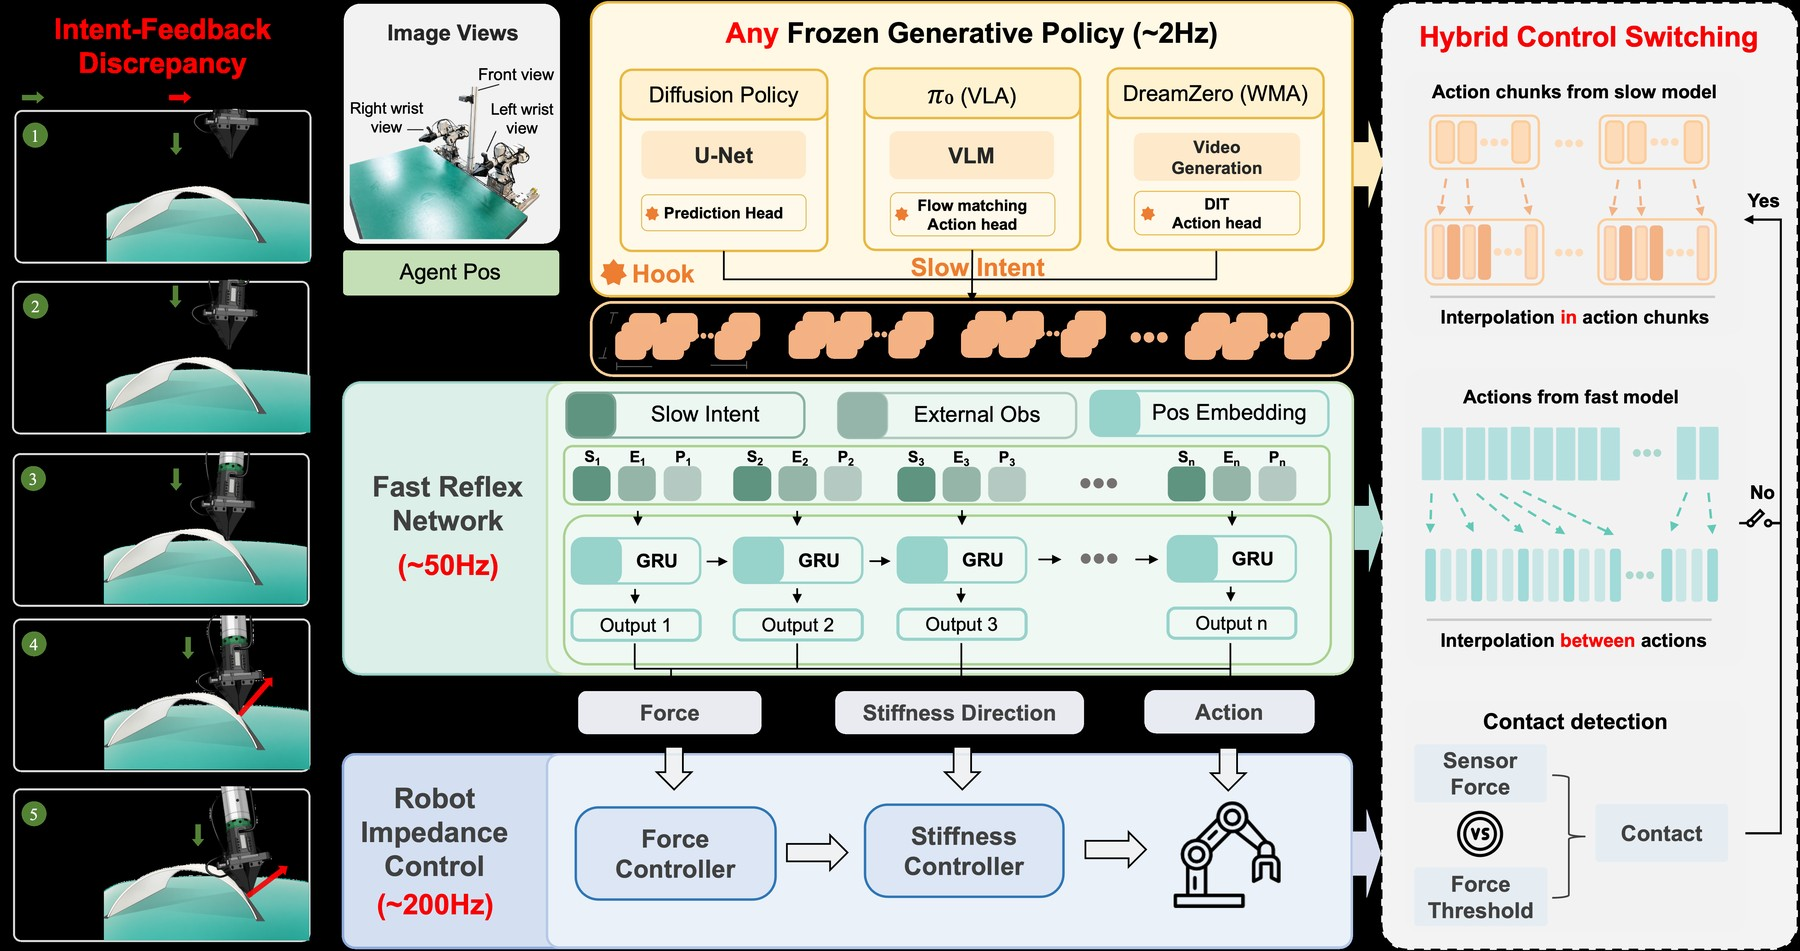
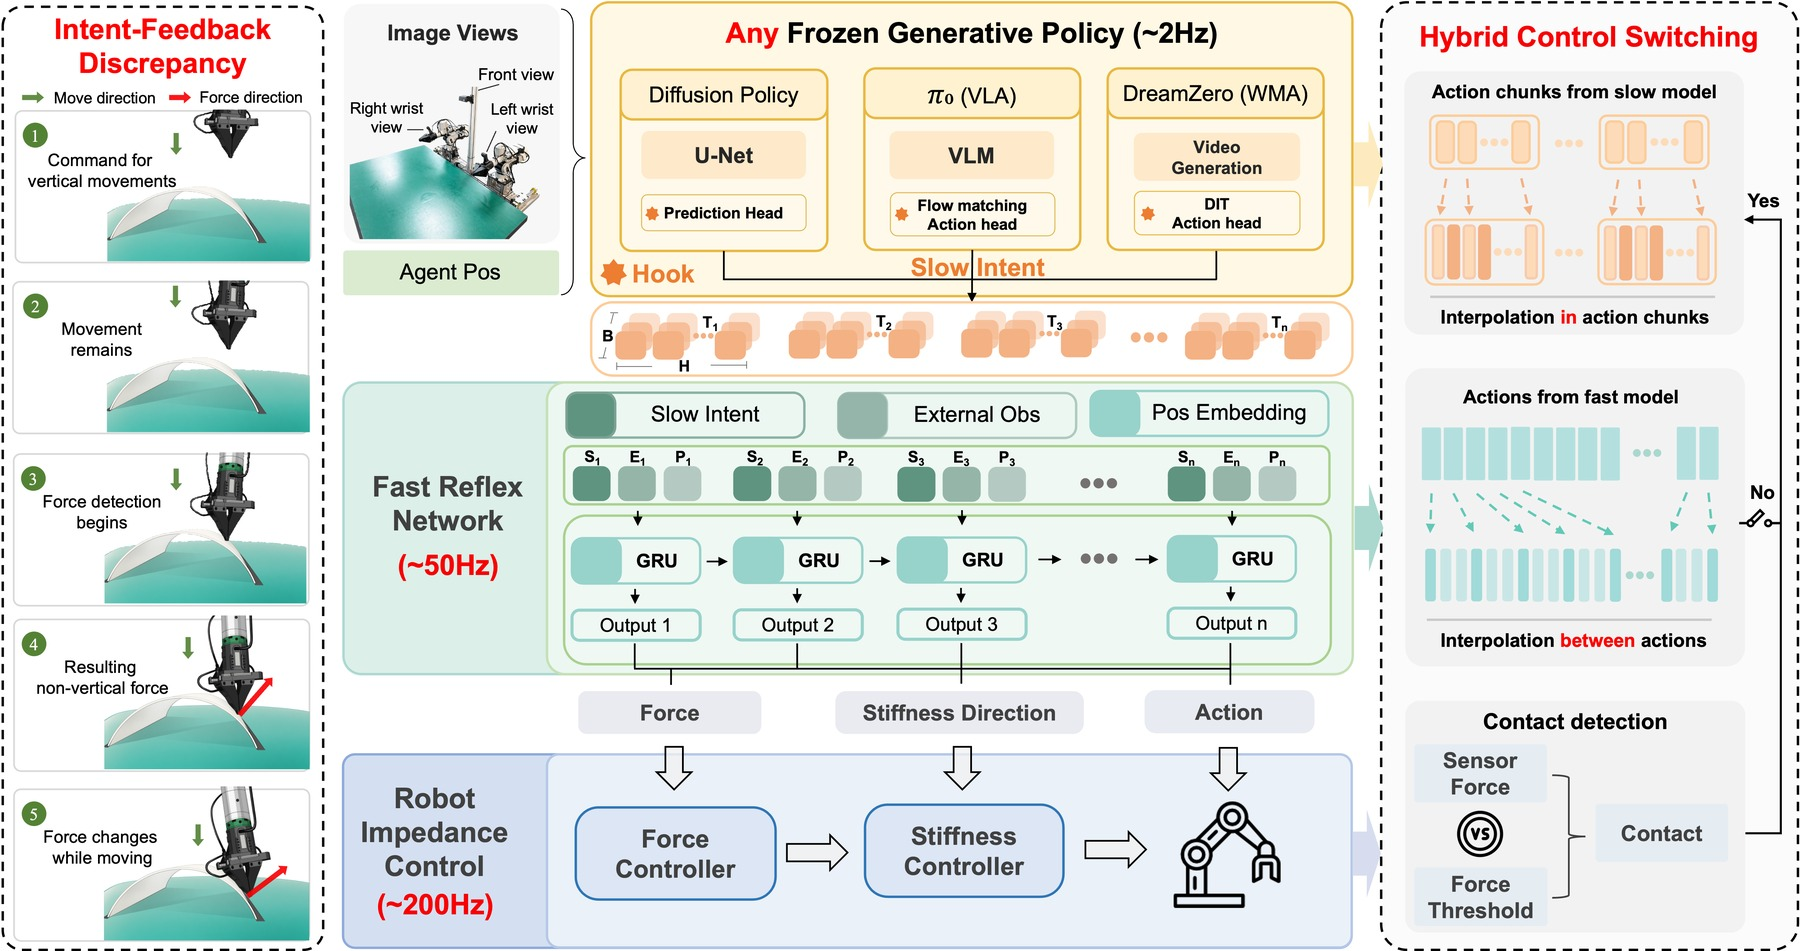
Use white backgrounds for system, tasks, and Q3Q4 figures.
Re-export from transparent PNGs so JPEG corners are white, not black.

diff --git a/index.html b/index.html
@@ -685,7 +685,7 @@
       visual planning, tactile reflex, and PID force tracking (~1 kHz).
     </p>
     <div class="table-like" style="justify-content:space-evenly;margin:20px auto;padding:0px;">
-      <img src="assets/img/system.jpg?v=2026052619" loading="lazy" alt="UniReflex system overview" class="rounded" style="width:900px;">
+      <img src="assets/img/system.jpg?v=2026052621" loading="lazy" alt="UniReflex system overview" class="rounded" style="width:900px;">
     </div>
   </div>
 
@@ -704,7 +704,7 @@
     </div>
 
     <div class="table-like" style="justify-content:space-evenly;margin:20px auto;padding:0px;">
-      <img src="assets/img/tasks.jpg?v=2026052619" loading="lazy" alt="Evaluation tasks" class="rounded" style="width:900px;">
+      <img src="assets/img/tasks.jpg?v=2026052621" loading="lazy" alt="Evaluation tasks" class="rounded" style="width:900px;">
     </div>
 
     <div class="table-like" style="justify-content:space-evenly;margin:20px auto;padding:0px;">
@@ -712,7 +712,7 @@
     </div>
 
     <div class="table-like" style="justify-content:space-evenly;margin:20px auto;padding:0px;">
-      <img src="assets/img/q3q4.jpg?v=2026052619" loading="lazy" alt="Qualitative results" class="rounded" style="width:900px;">
+      <img src="assets/img/q3q4.jpg?v=2026052621" loading="lazy" alt="Qualitative results" class="rounded" style="width:900px;">
     </div>
   </div>
 